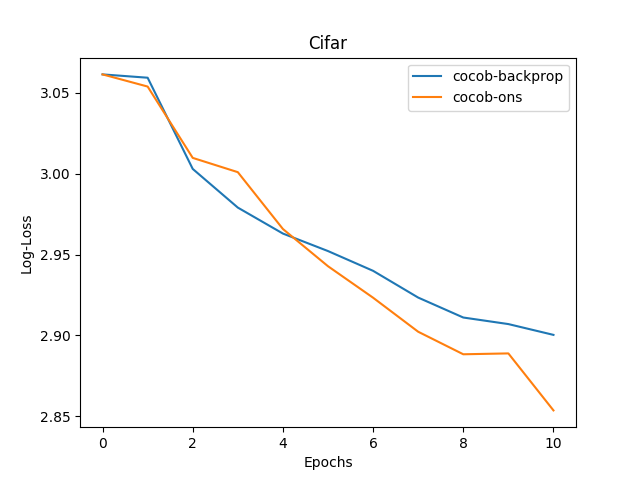
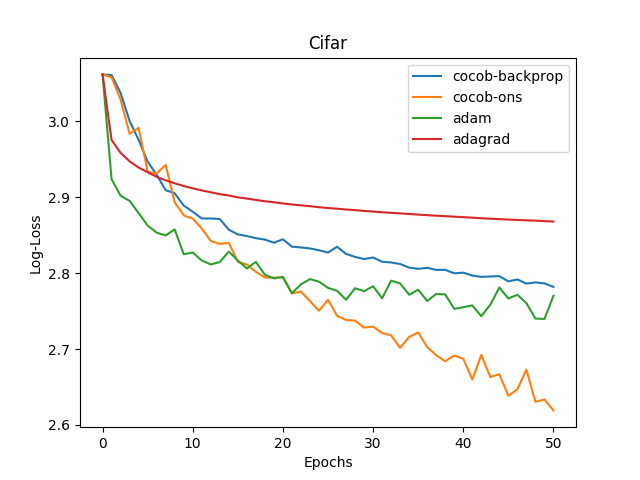
Add adam and adagrad to comparison.

diff --git a/cifar_optimize.py b/cifar_optimize.py
@@ -23,6 +23,9 @@ test_batch_size  = 100
 cuda             = torch.cuda.is_available()
 ##############################
 
+torch.manual_seed(1)
+print('Cuda Availibility: {}'.format(cuda))
+
 
 transform = transforms.Compose(
                        [transforms.ToTensor(),
@@ -94,7 +97,9 @@ def compute_epoch_loss():
 
 name_optimizers = [
             ('cocob-backprop', cocob.CocobBackprop(model.parameters())),
-            ('cocob-ons', cocob.CocobOns(model.parameters()))
+            ('cocob-ons', cocob.CocobOns(model.parameters())),
+            ('adam', torch.optim.Adam(model.parameters(), lr=0.01)),
+            ('adagrad', torch.optim.Adagrad(model.parameters(), lr=0.001))
         ]
 
 

diff --git a/mnist_optimize.py b/mnist_optimize.py
@@ -92,7 +92,9 @@ def compute_epoch_loss():
 
 name_optimizers = [
             ('cocob-backprop', cocob.CocobBackprop(model.parameters())),
-            ('cocob-ons', cocob.CocobOns(model.parameters()))
+            ('cocob-ons', cocob.CocobOns(model.parameters())),
+            ('adam', torch.optim.Adam(model.parameters(), lr=0.01)),
+            ('adagrad', torch.optim.Adagrad(model.parameters(), lr=0.001))
         ]
 
 
@@ -129,7 +131,7 @@ for opt_name, optimizer in name_optimizers:
 plt.xlabel('Epochs')
 plt.ylabel('Log-Loss')
 plt.legend(loc='upper right')
-plt.title(loc='Mnist')
+plt.title('Mnist')
 # plt.show()
 plt.savefig('log-losses-mnist.png')
 
